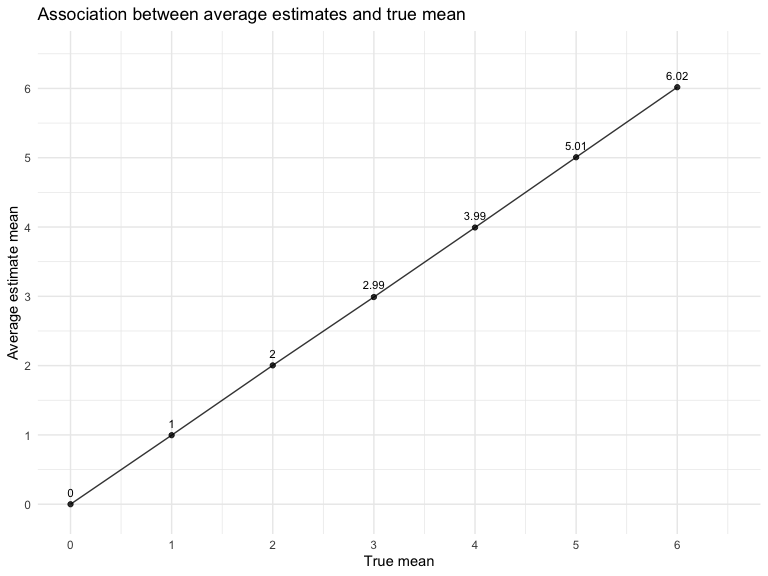
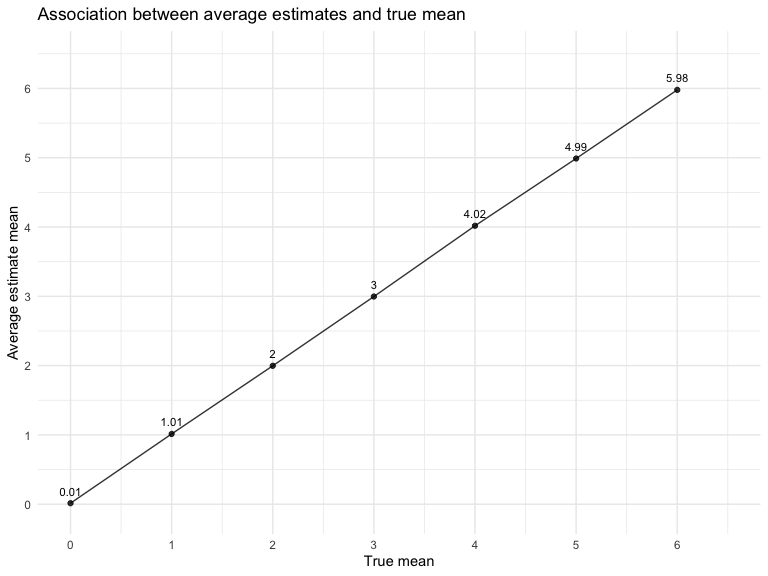
change the seed for simulation

diff --git a/p8105_hw5_yj2687.md b/p8105_hw5_yj2687.md
@@ -222,7 +222,7 @@ ttest = function(n = 30, mu, sigma = 5){
 }
 
 # Generate 5000 datasets from the model and repeat the t-test for mu = 0,1,2,3,4,5,6
-set.seed(1)
+set.seed(1234)
 
 sim_result = 
   tibble(mu = c(0:6)) %>% 
